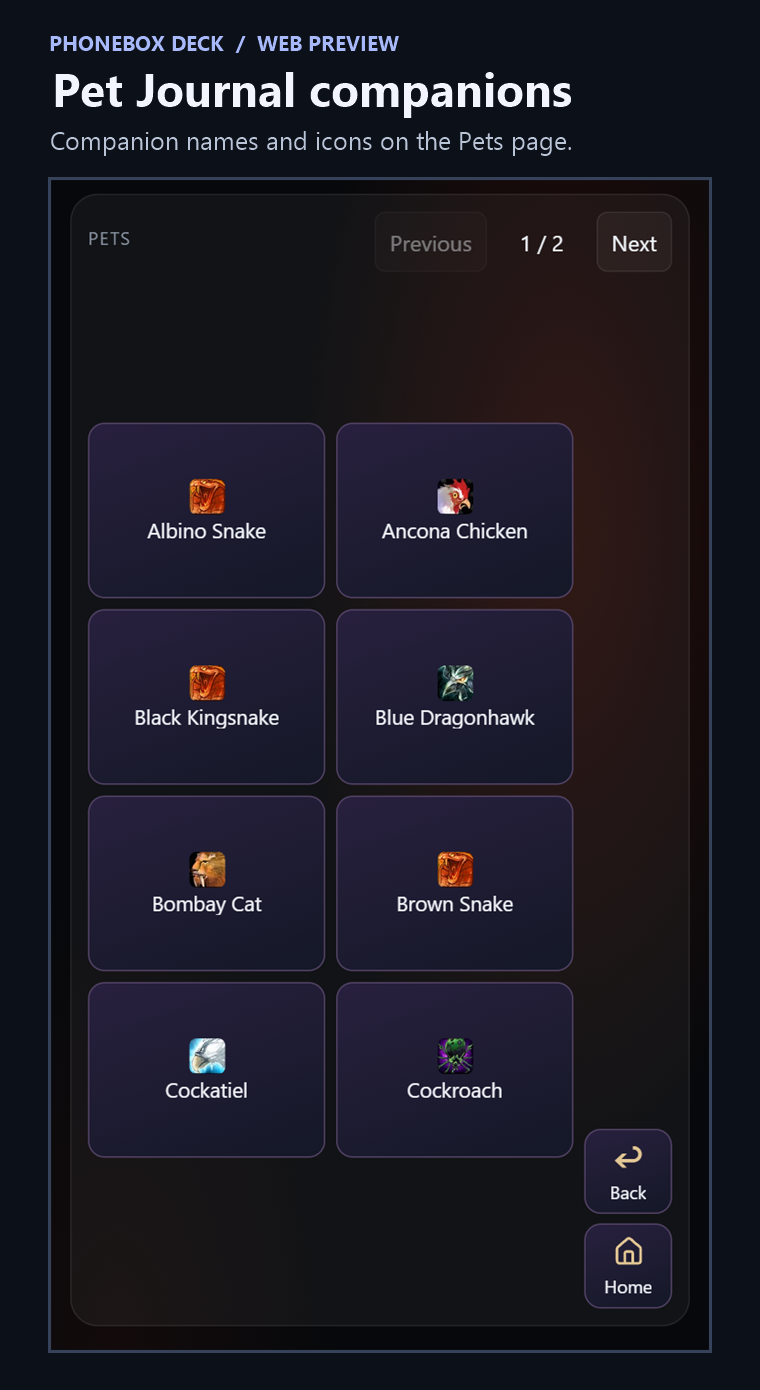
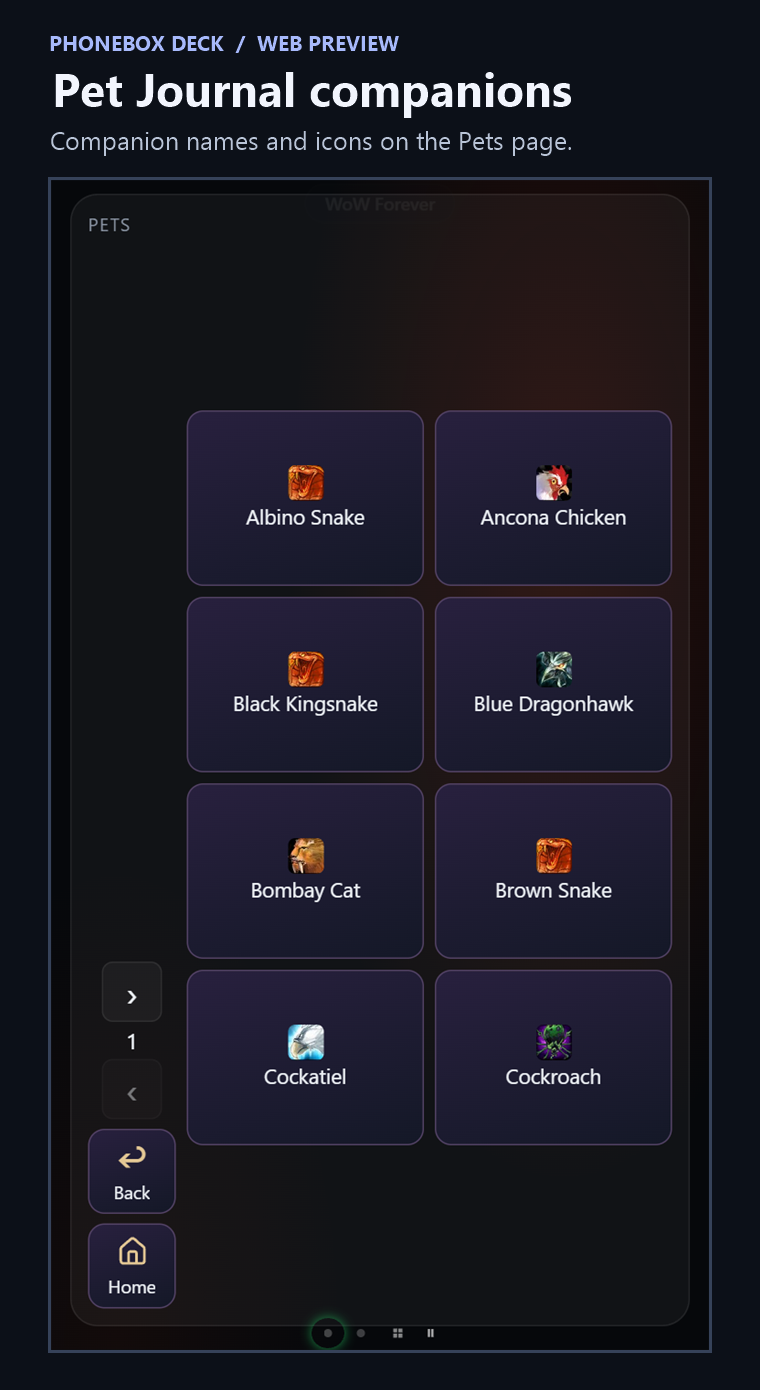
Stack pet page arrows above Back and Home

diff --git a/android/app/src/main/assets/www/widgets/console.js b/android/app/src/main/assets/www/widgets/console.js
@@ -61,12 +61,14 @@ W['app-console'] = {
     choose.type = 'button';
     choose.hidden = true;
     box.classList.toggle('ac-action-bar', canEdit);
-    const previousPets = h('button', 'ac-edit-toggle', tp('Previous'));
-    const nextPets = h('button', 'ac-edit-toggle', tp('Next'));
+    const previousPets = h('button', 'ac-edit-toggle', '‹');
+    const nextPets = h('button', 'ac-edit-toggle', '›');
     previousPets.type = nextPets.type = 'button';
+    previousPets.setAttribute('aria-label', tp('Previous'));
+    nextPets.setAttribute('aria-label', tp('Next'));
     const petPageCount = h('span', 'ac-pet-page-count');
     petPageCount.setAttribute('aria-live', 'polite');
-    const petPager = h('div', 'ac-pet-pager', previousPets, petPageCount, nextPets);
+    const petPager = h('div', 'ac-pet-pager', nextPets, petPageCount, previousPets);
     petPager.hidden = true;
     let petPage = 0;
     const resetPetPage = () => { petPage = 0; petPager.hidden = true; };
@@ -79,7 +81,7 @@ W['app-console'] = {
     };
     previousPets.onclick = () => stepPetPage(-1);
     nextPets.onclick = () => stepPetPage(1);
-    const header = h('div', 'ac-head', back, title, choose, edit, petPager);
+    const header = h('div', 'ac-head', back, title, choose, edit);
     const keys = h('div', 'ac-keys');
     const dock = h('div', 'ac-nav-dock');
     dock.hidden = true;
@@ -225,7 +227,6 @@ W['app-console'] = {
       queueView.replaceChildren(...items);
     };
     const navigation = () => {
-      if (!navigationTiles || !folder) return [];
       const button = tile(tp('Home'), '🏠', '←');
       button.classList.add('ac-home-key');
       button.setAttribute('aria-label', tp('Home'));
@@ -290,20 +291,23 @@ W['app-console'] = {
     const showFolder = entry => {
       if (!editor.hidden) closeEditor();
       resetPetPage();
-      box.classList.toggle('ac-pet-journal', entry.category === 'pet');
+      const pets = entry.category === 'pet';
+      const docked = Boolean(navigationTiles || pets);
+      box.classList.toggle('ac-pet-journal', pets);
       folder = entry;
       viewState = null;
       openFolders.set(wq, entry.id);
       box.classList.toggle('ac-numpad', entry.layout === 'numpad');
-      box.classList.toggle('ac-docked-nav', Boolean(navigationTiles));
-      dock.hidden = !navigationTiles;
-      dock.replaceChildren(...navigation());
+      box.classList.toggle('ac-docked-nav', docked);
+      dock.hidden = !docked;
+      dock.replaceChildren(...(docked ? navigation() : []));
+      if (pets) dock.prepend(petPager);
       if (queue && !hasSpellQueue()) queue.adding = false;
       renderQueue();
       title.textContent = entry.label;
       tell('');
       back.textContent = tp(entry.parent ? 'Back' : 'Home');
-      back.hidden = Boolean(navigationTiles);
+      back.hidden = docked;
       choose.hidden = !canEdit || PREVIEW || entry.role !== 'wow-actions';
       edit.hidden = !canEdit || entry.role === 'wow-inventory';
       sig = '';
@@ -596,7 +600,8 @@ W['app-console'] = {
       petPager.hidden = pagesOfPets < 2;
       previousPets.disabled = petPage === 0;
       nextPets.disabled = petPage >= pagesOfPets - 1;
-      petPageCount.textContent = `${petPage + 1} / ${pagesOfPets}`;
+      petPageCount.textContent = String(petPage + 1);
+      petPageCount.setAttribute('aria-label', `${petPage + 1} / ${pagesOfPets}`);
       const first = pets ? petPage * PETS_PER_PAGE : 0;
       const visibleLabels = pets ? labels.slice(first, first + PETS_PER_PAGE) : labels;
       const actionTiles = visibleLabels.map((label, index) => {

diff --git a/android/app/src/main/assets/www/style.css b/android/app/src/main/assets/www/style.css
@@ -1545,11 +1545,15 @@ body.waking::after { opacity: 0; pointer-events: auto; transition: opacity .2s e
 .ac-key-icon svg { width: 1em; height: 1em; }
 .ac-wow-icon { width: 34px; height: 34px; border-radius: 5px; display: block; object-fit: contain; }
 .ac-key-label { max-width: 100%; overflow: hidden; text-overflow: ellipsis; }
-.ac-pet-journal .ac-head { flex-wrap: wrap; }
-.ac-pet-pager { display: flex; align-items: center; margin-left: auto; }
-.ac-pet-pager button { min-height: 44px; }
+.w.ac.ac-pet-journal.ac-docked-nav { grid-template-columns: auto minmax(0, 1fr); }
+.w.ac.ac-pet-journal.ac-docked-nav.ac-has-dial { grid-template-columns: auto minmax(0, 1fr) auto; }
+.ac-pet-journal.ac-docked-nav .ac-keys { grid-column: 2; }
+.ac-pet-journal.ac-docked-nav .ac-dial { grid-column: 3; }
+.ac-pet-journal .ac-nav-dock { grid-column: 1; justify-self: start; padding: 0 8px 0 0; }
+.ac-pet-pager { display: flex; flex-direction: column; align-items: center; gap: 3px; }
+.ac-pet-pager button { width: 44px; height: 44px; padding: 0; font-size: 27px; line-height: 1; }
 .ac-pet-pager button:disabled { opacity: .45; }
-.ac-pet-page-count { min-width: 5em; padding: 0 6px; text-align: center; font-variant-numeric: tabular-nums; }
+.ac-pet-page-count { min-width: 3ch; text-align: center; font-variant-numeric: tabular-nums; }
 .ac-pet-journal .ac-keys .ac-key { gap: 3px; padding: 3px 5px; }
 .ac-pet-journal .ac-keys .ac-key-label { white-space: normal; overflow-wrap: anywhere; text-align: center; line-height: 1.14; }
 .ac-pet-journal .ac-wow-icon { width: 26px; height: 26px; }

diff --git a/packaging/wow-preview/START-HERE.md b/packaging/wow-preview/START-HERE.md
@@ -1,4 +1,4 @@
-# PhoneBox Spellbook 1.2.1 and PhoneBox Deck 1.2.2 preview
+# PhoneBox Spellbook 1.2.1 and PhoneBox Deck 1.2.3 preview
 
 The add-on targets World of Warcraft Forever 1.60.1. This preview uses a Windows 11 x64 PC and an Android touchscreen. The Vizio XR6M10 running Android 6.0.1 was the reference device for the full interface.
 
@@ -6,7 +6,7 @@ The add-on targets World of Warcraft Forever 1.60.1. This preview uses a Windows
 
 1. Extract `PhoneBoxSpellbook-1.2.1.zip` into World of Warcraft’s `_forever_/Interface/AddOns/` folder. The game should find `AddOns/PhoneBoxSpellbook/PhoneBoxSpellbook.toc`. Restart the game if it was running.
 2. Install the **x64 .NET Desktop Runtime 10** and **x64 ASP.NET Core Runtime 10** from [Microsoft’s .NET 10 downloads](https://dotnet.microsoft.com/download/dotnet/10.0). Extract the Windows companion and double-click **Start PhoneBox WoW.cmd**. If you already have a PhoneBox agent open, exit it first so this instance can use port 8765. The launcher starts with a separate profile under `%LOCALAPPDATA%\PhoneBoxWoW`.
-3. Install the signed `PhoneBox-WoW-Android-1.2.2-preview.apk` on the Android device and open PhoneBox. This preview is signed separately from upstream builds. If Android reports a signature conflict with your existing PhoneBox, use a spare device or back up your pairing information and settings before replacing the existing install.
+3. Install the signed `PhoneBox-WoW-Android-1.2.3-preview.apk` on the Android device and open PhoneBox. This preview is signed separately from upstream builds. If Android reports a signature conflict with your existing PhoneBox, use a spare device or back up your pairing information and settings before replacing the existing install.
 4. For USB, enable **USB debugging**, use a data cable and accept the device’s authorization prompt. Install [Android SDK Platform-Tools](https://developer.android.com/tools/releases/platform-tools) and place its `platform-tools` folder in `%LOCALAPPDATA%\Android\Sdk`, or set the full `adb.exe` path in PhoneBox’s settings. You can also use `winget install -e --id Google.PlatformTools`. The PC agent handles USB forwarding after that.
 5. Log in to WoW and type `/pbspells` outside combat. This reloads the UI and saves the action list. Keep the game running at the same Windows privilege level as PhoneBox.
 6. Open `http://127.0.0.1:8765` in your PC browser. Open your deck’s **WoW Actions** folder and choose the skills, items or macros you want. Return focus to WoW before using the touchscreen. Refresh with `/pbspells` after substantial spellbook or inventory changes.
@@ -15,7 +15,7 @@ The add-on targets World of Warcraft Forever 1.60.1. This preview uses a Windows
 
 Automatic upstream updates start off so the preview stays compatible with the add-on. Use these companion files as a matched set.
 
-**Pets** shows up to eight companions at a time. Tap **Previous** or **Next** to move between pages, or tap a companion to summon it. A paw icon appears when game art is unavailable.
+**Pets** shows up to eight companions at a time. Use the arrows around the page number on the left, above **Back** and **Home**, or tap a companion to summon it. A paw icon appears when game art is unavailable.
 
 On a personal phone, open PhoneBox from the app launcher. Android Back or **All pages → Close app** takes you out of the deck. For a dedicated tablet, turn on **Settings → Display → Kiosk → Open PhoneBox when the phone is plugged in** if wanted.
 

diff --git a/README.md b/README.md
@@ -6,7 +6,7 @@ I’m **OtosanX**. I forked [PhoneBox by Ersin KOÇ](https://github.com/ersinkoc
 
 ## Get started
 
-1. Install the Windows and Android companion apps from the [PhoneBox Deck 1.2.2 preview](https://github.com/OtosanX/phonebox/releases/tag/deck-preview-v1.2.2).
+1. Install the Windows and Android companion apps from the [PhoneBox Deck 1.2.3 preview](https://github.com/OtosanX/phonebox/releases/tag/deck-preview-v1.2.3).
 2. Install **PhoneBox Spellbook** for WoW Forever 1.60.1 and follow the [setup guide](packaging/wow-preview/START-HERE.md). The [add-on source](extras/wow/PhoneBoxSpellbook) is in this repository.
 3. In WoW, type `/pbspells` outside combat. In the PhoneBox web editor, open **WoW Actions → Choose actions** to pick what goes on your deck.
 
@@ -14,7 +14,7 @@ I’m **OtosanX**. I forked [PhoneBox by Ersin KOÇ](https://github.com/ersinkoc
 
 - Put learned spells, items and existing macros into folders with their in-game icons.
 - Keep form and stealth actions in their own menus. Supported stealth states switch the panel as you enter or leave stealth.
-- Open **Adventure** for your Hearthstone, fishing, food, potions and collected Pet Journal companions. Tap **Previous** or **Next** in Pets to browse eight companions at a time. Hunters get a separate folder for active combat-pet commands.
+- Open **Adventure** for your Hearthstone, fishing, food, potions and collected Pet Journal companions. Use the lower-left arrows in Pets to browse eight companions at a time. Hunters get a separate folder for active combat-pet commands.
 
 ## Screenshots
 

diff --git a/docs/SCREENSHOTS.md b/docs/SCREENSHOTS.md
@@ -10,7 +10,7 @@ Captured on the same Vizio XR6M10 with WoW Forever in the foreground. The home a
 
 ## Pet Journal companions
 
-**Adventure → Pets** shows up to eight companions per page with their names and game icons. Tap **Previous** or **Next** to move through the collection. These previews use sample companions.
+**Adventure → Pets** shows up to eight companions per page with their names and game icons. The left-hand strip stacks the Next arrow, page number, and Previous arrow above Back and Home. These previews use sample companions.
 
 ![Pet Journal companions and page controls in portrait](screenshots/05-pet-journal-example.png)
 
